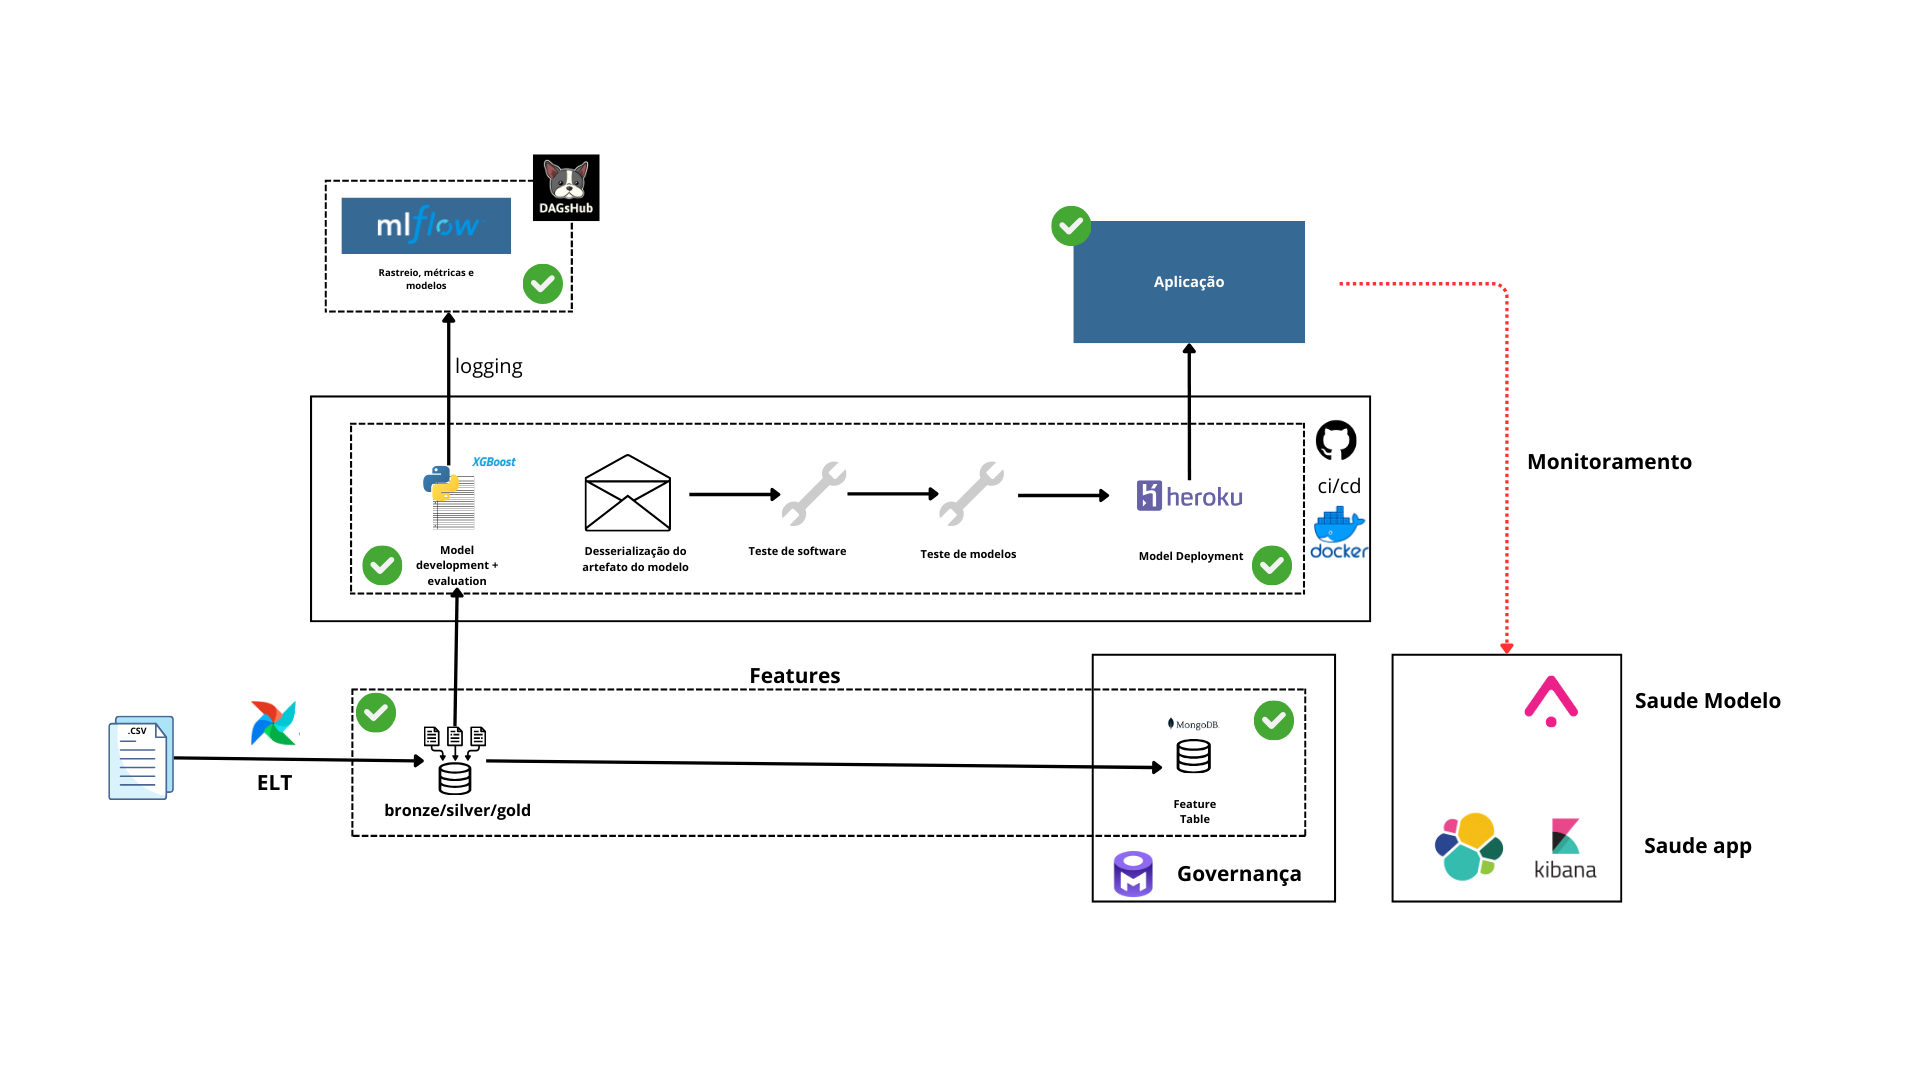
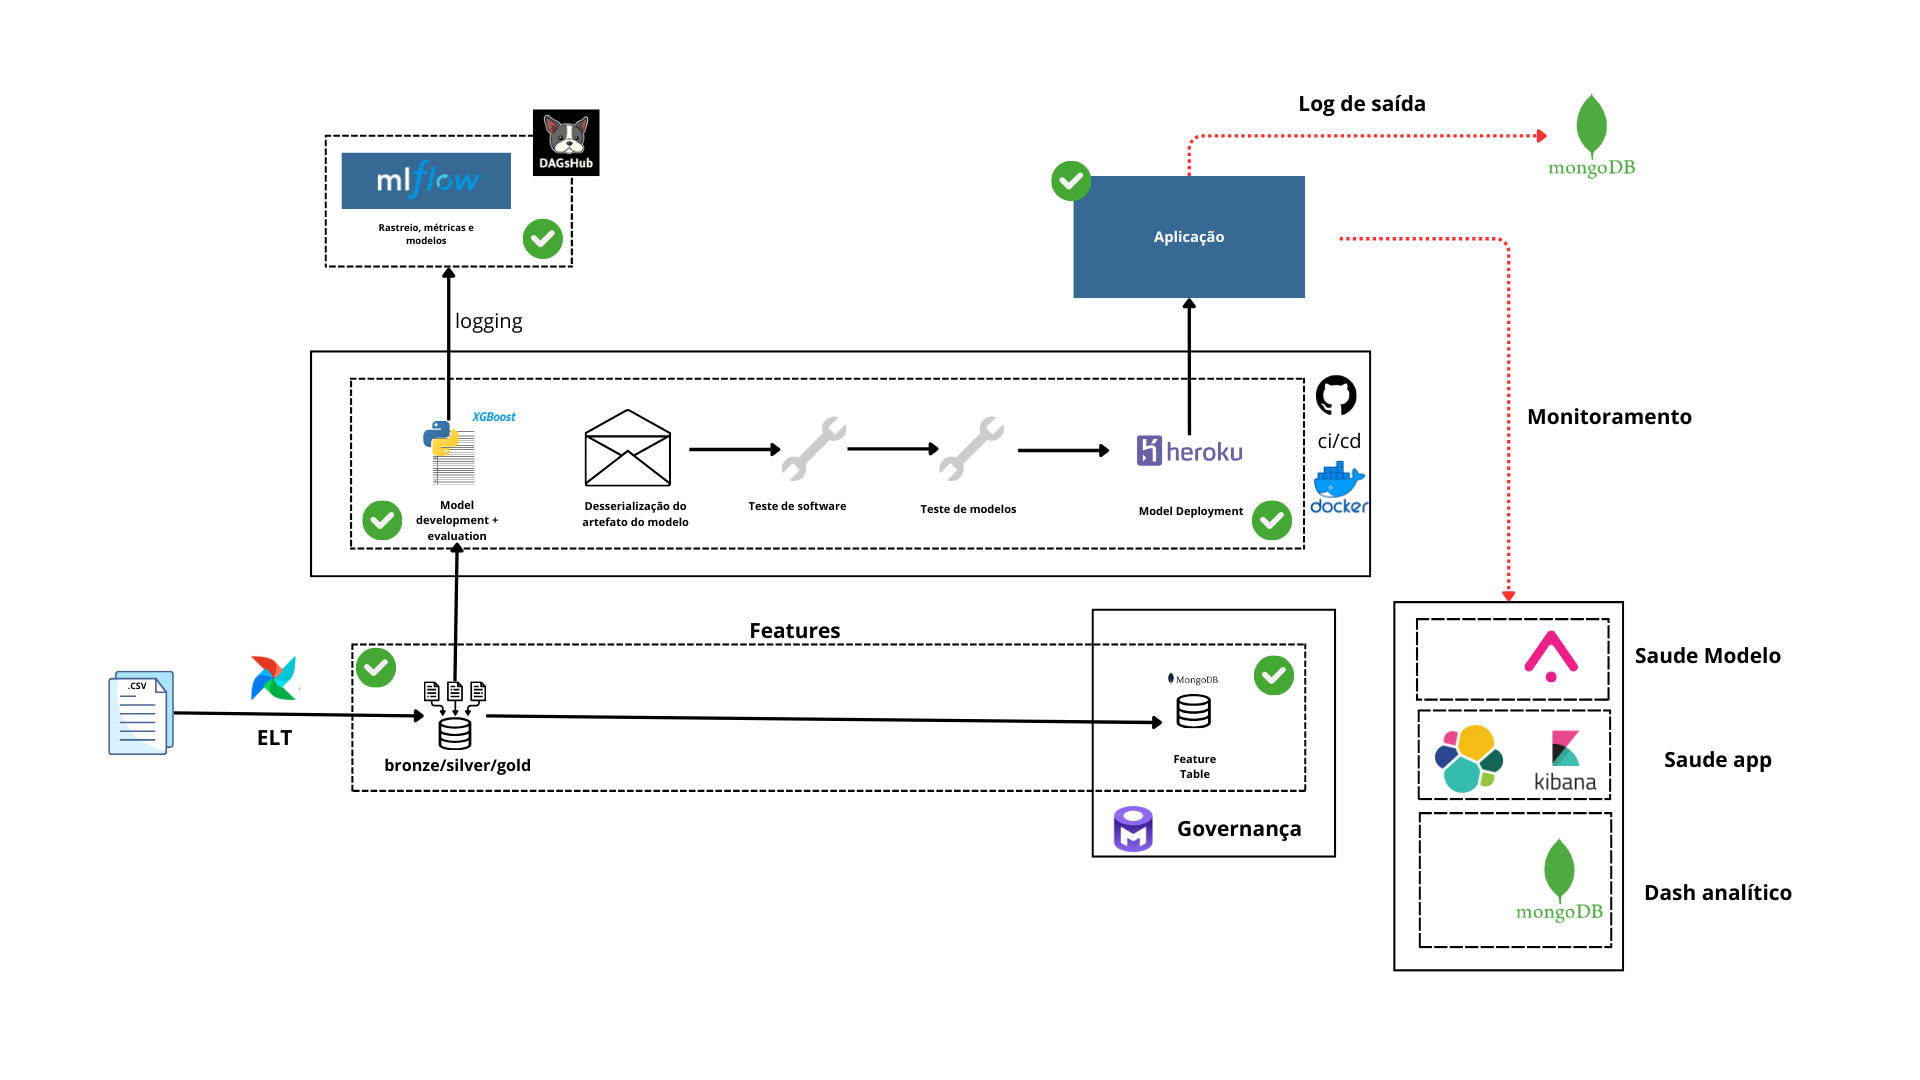
Adicao da etapa de acompanhamento analítico via mongodbcharts

diff --git a/README.md b/README.md
@@ -59,11 +59,12 @@ DataMaster_Case/
 
 1.  Jupyter Notebook + Mlflow hospedado no dagshub para treinamento, rastreio, avaliação e versionamento dos modelos.
 2.  Docker + Github para empacotamento, teste e deploy automático da aplicação no Heroku.
-3. Mongo para feature table que alimenta o modelo da aplicação.
+3. MongoDB para feature table que alimenta o modelo e para salvar os dados de saída da aplicação.
 4. OpenMetaData para governança da feature table
 4. Elastic Search + Kibana + arize para monitoramento, tanto para acompanhamento da saúde da aplicação como para avaliação da estabilidade e desempenho do modelo.
 5. Airflow para orquestração do ELT que vai alimentar a feature table
 6. Heorku como Plataforma para deploy de aplicação
+7. MongoCharts para acompanhamento analítico da aplicação : O dashboard pode ser acessado através de https://charts.mongodb.com/charts-project-0-ycudizl/public/dashboards/6702fe80-5b8a-4f70-8cb0-2e16355874c0 
 
 # Instruções de reproducibilidade
 
